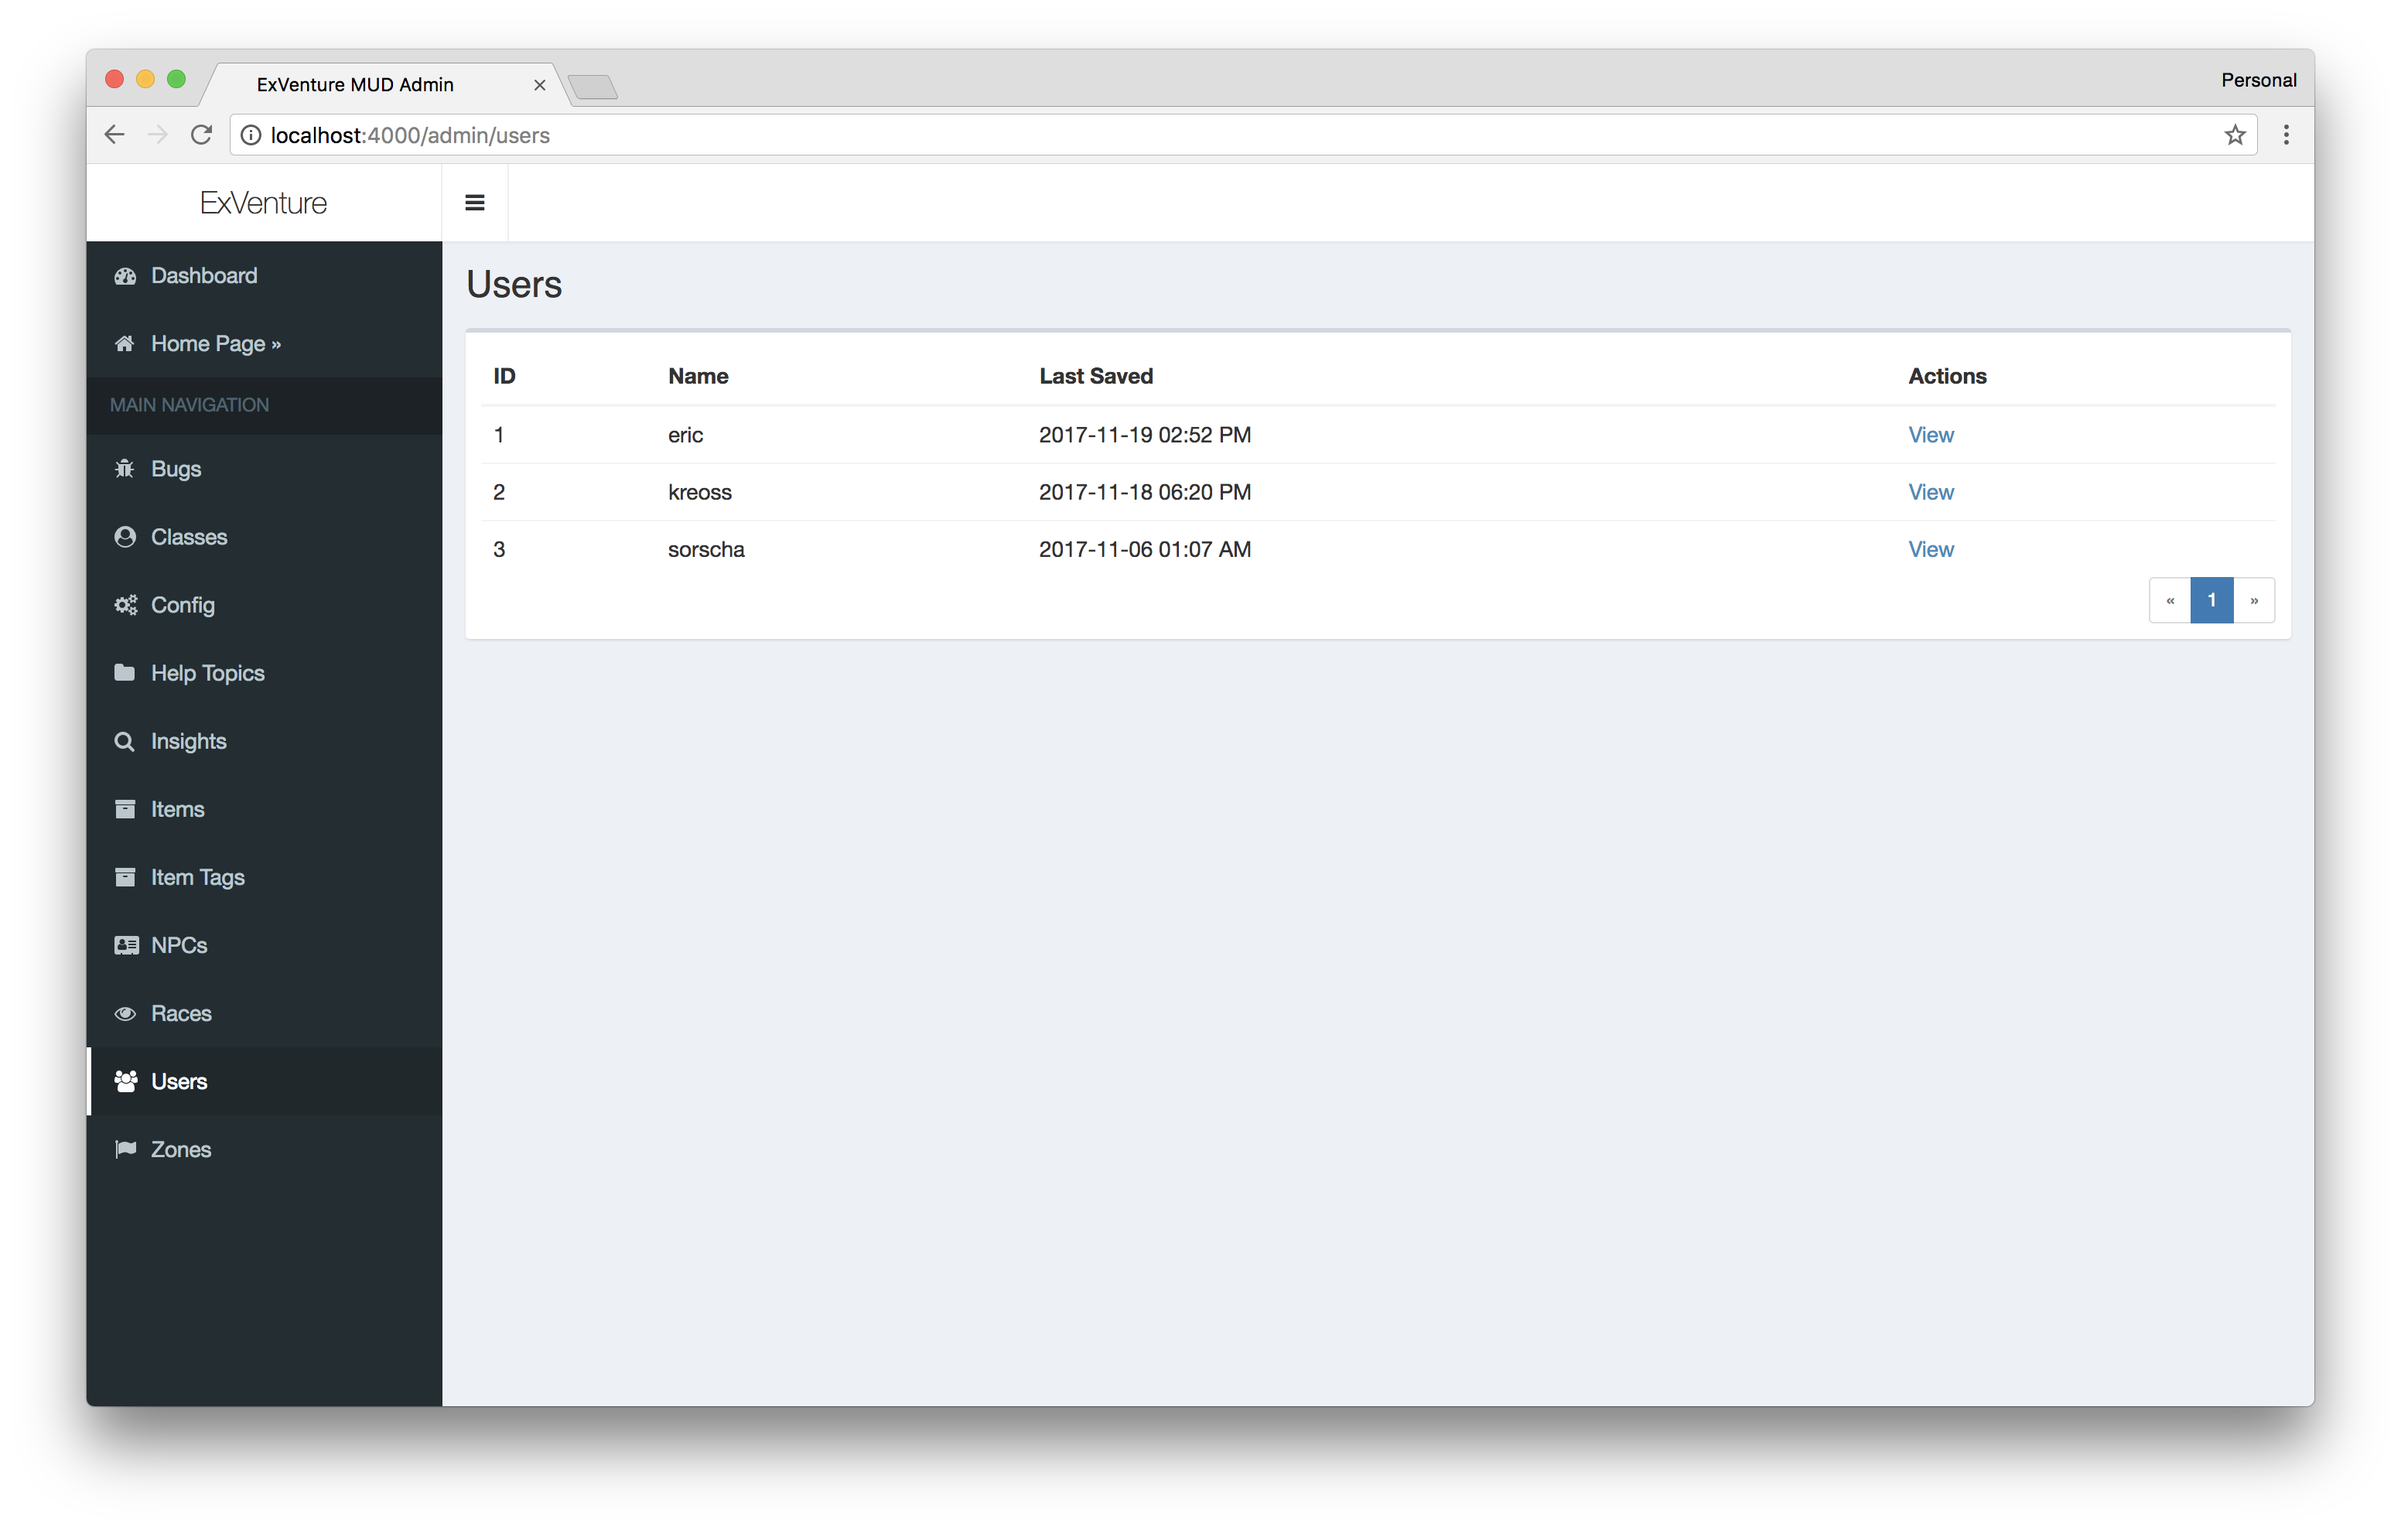
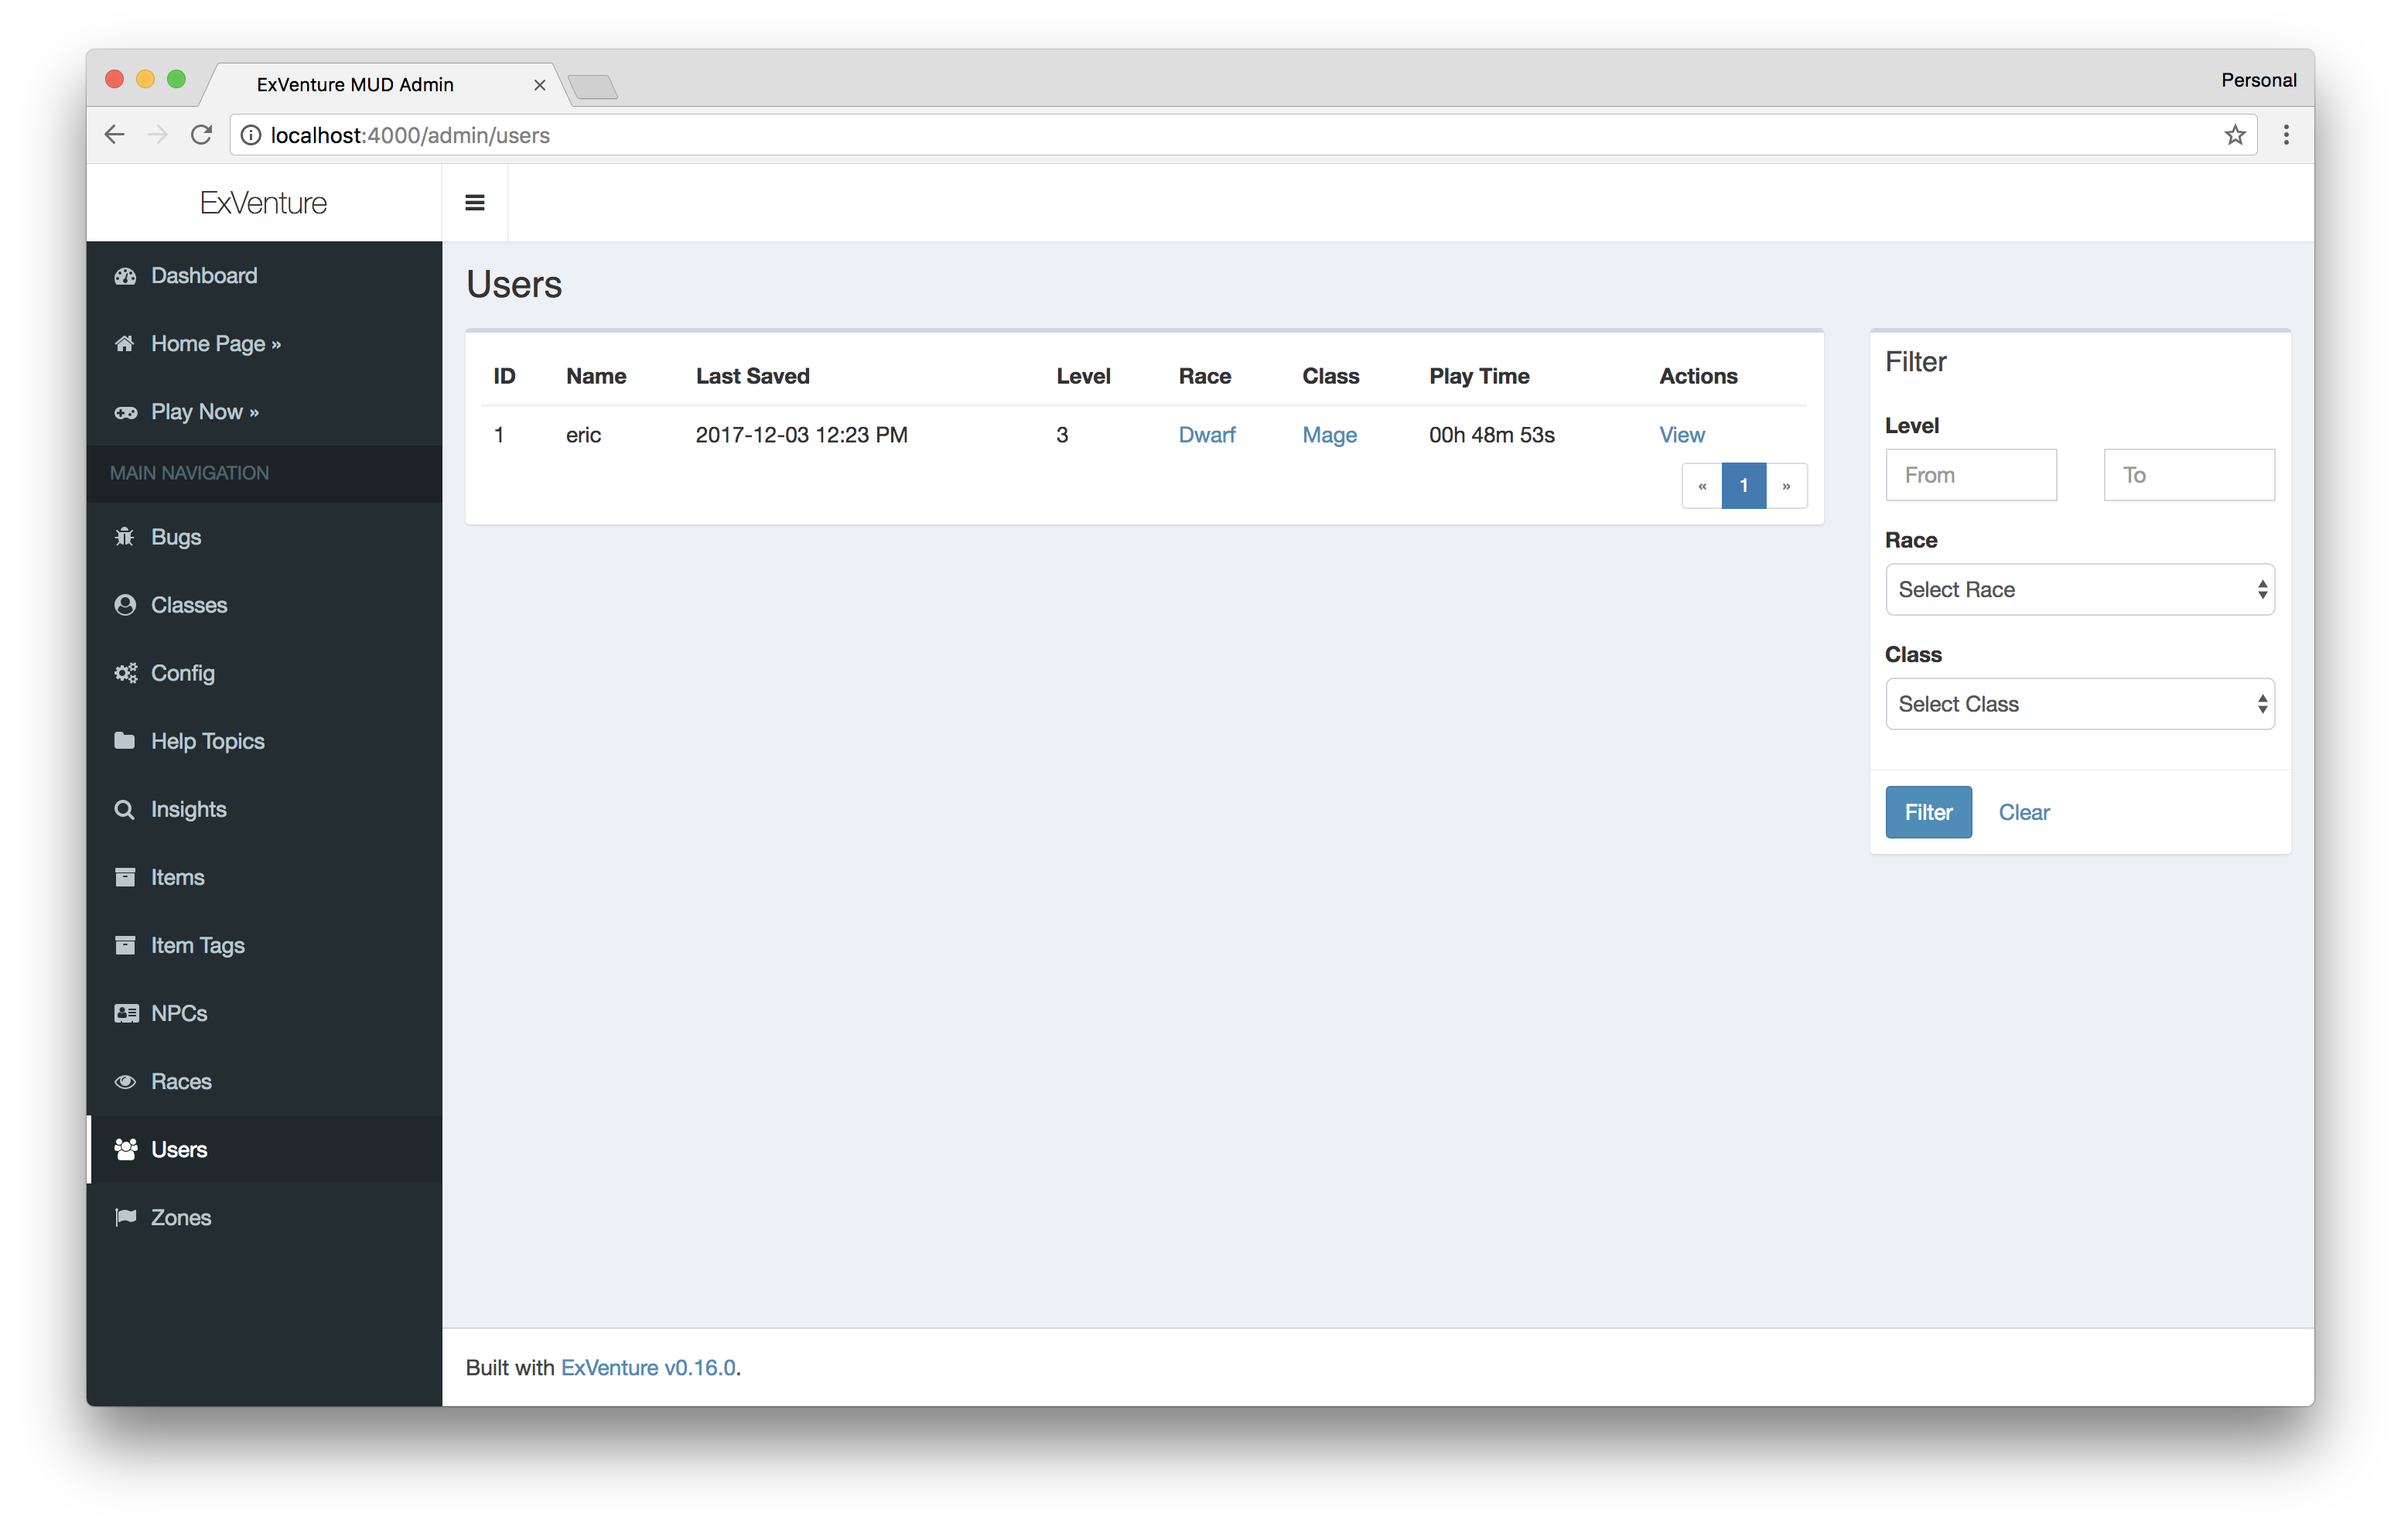
Update user docs for new filter

diff --git a/docs/admin/users.md b/docs/admin/users.md
@@ -2,7 +2,7 @@
 
 ![Users Index](/images/admin-users-index.png)
 
-The user listing lets you see which users have signed up for the game. You can click `View` to view more details about that user.
+The user listing lets you see which users have signed up for the game. You can click `View` to view more details about that user. You can also filter the list by level, class, and race.
 
 ## Viewing a User
 
